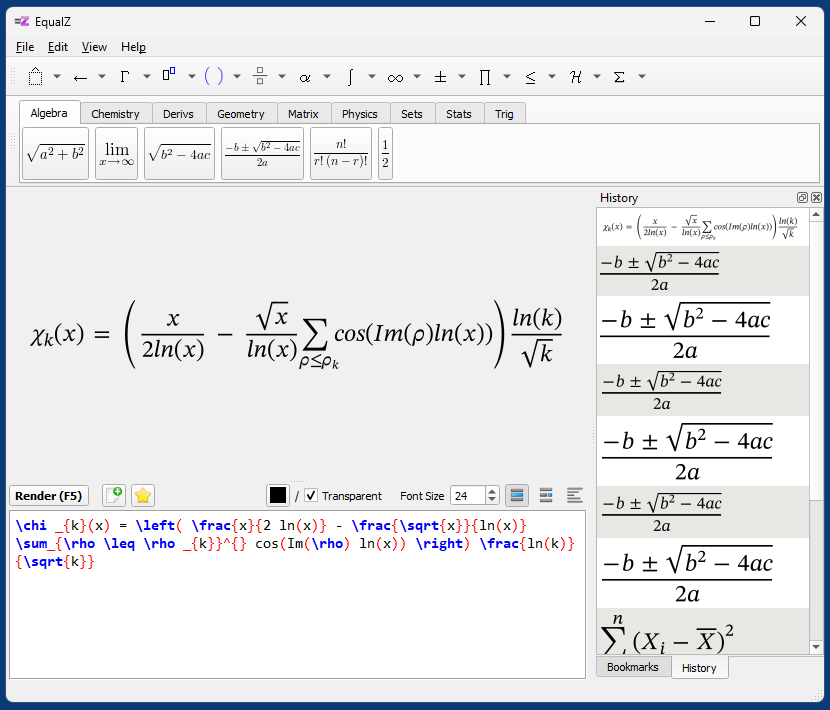
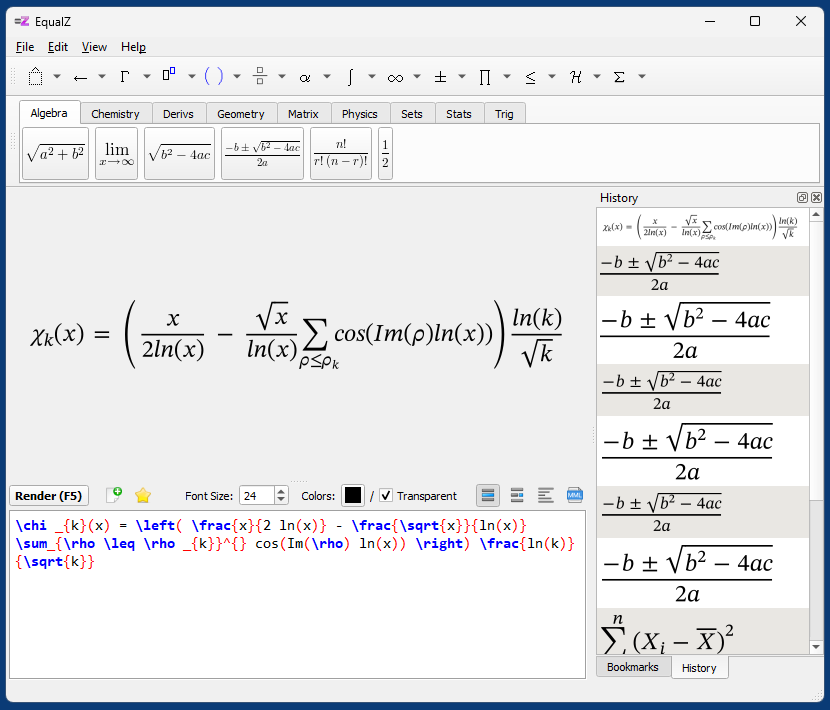
Added MathML support

Changed region(s): [[0.2108, 0.6817, 0.7229, 0.7127], [0.1506, 0.6817, 0.1807, 0.7127]]

diff --git a/main.py b/main.py
@@ -43,6 +43,7 @@ class RenderMode():
     Display = 0
     Inline = 1
     Text = 2
+    MathML = 3
 
 
 ########################################
@@ -88,6 +89,7 @@ class Main(QMainWindow):
         self.button_group_render_mode.addButton(self.renderModeDisplay, RenderMode.Display)
         self.button_group_render_mode.addButton(self.renderModeInline, RenderMode.Inline)
         self.button_group_render_mode.addButton(self.renderModeText, RenderMode.Text)
+        self.button_group_render_mode.addButton(self.renderModeMathML, RenderMode.MathML)
 
         self.editor.textChanged.connect(self.slot_text_changed)
 
@@ -322,7 +324,7 @@ class Main(QMainWindow):
             self,
             f'About {APP_NAME}',
             f'<b>{APP_NAME} v0.{APP_VERSION}</b><br><br>'\
-            'A simple standalone LaTeX Math Equation editor<br>based on Python, PyQt5, '\
+            'A simple standalone LaTeX Math and MathML Equation editor<br>based on Python, PyQt5, '\
             '<a href="https://pypi.org/project/ziamath/">Ziamath</a> and '\
             '<a href="https://cairosvg.org/">CairoSVG</a>.<br><br>'\
             f'<a href="https://github.com/59de44955ebd/equalz">{APP_NAME} on GitHub</a>'
@@ -446,7 +448,7 @@ class Main(QMainWindow):
         else:
             self.checkBoxTransparent.setChecked(True)
         self.button_group_render_mode.button(bm['render_mode']).setChecked(True)
-        self.slot_render()
+        self.slot_render(add_to_history=False)
 
     ########################################
     #
@@ -576,10 +578,11 @@ class Main(QMainWindow):
     ########################################
     #
     ########################################
-    def slot_render(self):
+    def slot_render(self, _=None, add_to_history=True):
         tex = self.editor.toPlainText()
         if not tex:
             return
+        self.statusBar.clearMessage()
         try:
             self._current_tex = tex
             self._current_rendermode = self.button_group_render_mode.checkedId()
@@ -587,7 +590,13 @@ class Main(QMainWindow):
             self._current_bgcolor = '' if self.checkBoxTransparent.isChecked() else self.toolButtonBgColor.color().name()
             self._current_fontsize = self.spinBoxFontSize.value()
 
-            if self._current_rendermode == RenderMode.Text:
+            if self._current_rendermode == RenderMode.MathML:
+                zm.config.math.color = self._current_color
+                res = zm.Math(
+                    tex,
+                    size=self._current_fontsize
+                )
+            elif self._current_rendermode == RenderMode.Text:
                 #######################################
                 # Mixed text and latex math. Inline math delimited by single $..$, and display-mode math delimited
                 # by double $$…$$. Can contain multiple lines. Drawn to SVG
@@ -620,27 +629,27 @@ class Main(QMainWindow):
             pm.loadFromData(self._current_png, 'png')
             self.renderLabel.setPixmap(pm)
 
-            # add to history
-            history_png = os.path.join(HISTORY_DIR, f'{self._current_uid}.png')
-            with open(history_png, 'wb') as f:
-                f.write(self._current_png)
+            if add_to_history:
+                history_png = os.path.join(HISTORY_DIR, f'{self._current_uid}.png')
+                with open(history_png, 'wb') as f:
+                    f.write(self._current_png)
 
-            dt = datetime.now().isoformat(' ', timespec='seconds')
+                dt = datetime.now().isoformat(' ', timespec='seconds')
 
-            self._history[self._current_uid] = {
-                'datetime': dt,
-                'tex': self._current_tex,
-                'color': self._current_color,
-                'bgcolor': self._current_bgcolor,
-                'fontsize': self._current_fontsize,
-                'render_mode': self._current_rendermode,
-            }
+                self._history[self._current_uid] = {
+                    'datetime': dt,
+                    'tex': self._current_tex,
+                    'color': self._current_color,
+                    'bgcolor': self._current_bgcolor,
+                    'fontsize': self._current_fontsize,
+                    'render_mode': self._current_rendermode,
+                }
 
-            lwi = QListWidgetItem()
-            lwi.setIcon(QIcon(history_png))
-            lwi.setData(Qt.UserRole, self._current_uid)
-            lwi.setToolTip(f"Saved on: {dt}")
-            self.listWidgetHistory.insertItem(0, lwi)
+                lwi = QListWidgetItem()
+                lwi.setIcon(QIcon(history_png))
+                lwi.setData(Qt.UserRole, self._current_uid)
+                lwi.setToolTip(f"Saved on: {dt}")
+                self.listWidgetHistory.insertItem(0, lwi)
 
             self.actionBookmark.setEnabled(True)
             self.toolButtonBookmark.setEnabled(True)

diff --git a/README.md b/README.md
@@ -1,4 +1,4 @@
-# EqualZ - a simple standalone LaTeX Math Equation editor based on Python, PyQt5, Ziamath and CairoSVG
+# EqualZ - a simple standalone LaTeX Math and MathML equation editor based on Python, PyQt5, Ziamath and CairoSVG
 EqualZ is a simplified clone of [EqualX](https://equalx.sourceforge.io/), but written in Python and standalone, i.e. without depending on external tools. In other words, you don't have to install a full LaTeX stack and bloat your disk with another 900 MB (as in case of MiKTeX) if you only want to render some simple math equations. 
 
 It instead uses bundled versions of [Ziamath](https://github.com/cdelker/ziamath) to render LaTeX Math to SVG and [CairoSVG](https://cairosvg.org/) to convert SVG to other formats. Since no external processes have to be started, equations are also rendered way faster (instantly) than in EqualX.
@@ -24,4 +24,4 @@ The app detects at runtime if it runs in portable or installer mode by looking f
 
 ## ToDos
 * Create frozen release for macOS as well
-* Possibly add support for MathML in addition to LaTeX Math
+* Add syntax highlighting for MathML
